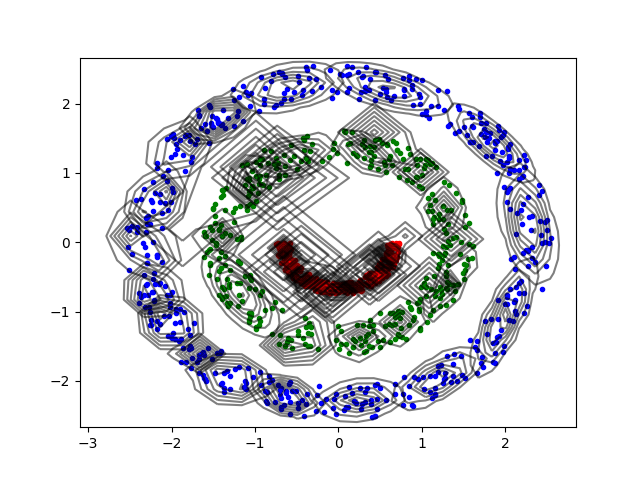
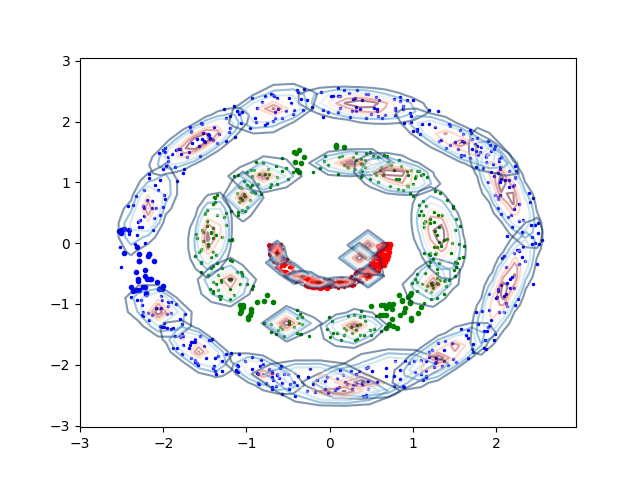
Wrapping up the work of Assignment 2.

diff --git a/Assignment2/main_1.py b/Assignment2/main_1.py
@@ -161,10 +161,10 @@ if inp=="2c":
 	plt.show()
 	print "KMeans done"
 	# print len(data.tolist())
-	files = os.listdir("Data/Data2c/Test/7by7_1_try/")
+	files = os.listdir("Data/Data2c/Test/7by7/")
 	TEST = []
 	for i in files:
-		image = np.load("Data/Data2c/Test/7by7_1_try/" + i)
+		image = np.load("Data/Data2c/Test/7by7/" + i)
 		TEST.append(image.tolist())
 	data_p = []
 	for i in range(len(TEST)):
@@ -174,19 +174,26 @@ if inp=="2c":
 		for j in range(len(TEST[i])):
 			data_p.append(TEST[i][j])
 			cluster = KMeans.getCluster(cluster_centers, TEST[i][j])
-			if(cluster == 0):
-				for x in range(7):
-					for y in range(7):
-						cluster1.append([(j/73)*7 + x, (j%73)*7 + y])
-			if(cluster == 1):
-				c+=1
-				for x in range(7):
-					for y in range(7):
-						cluster2.append([(j/73)*7 + x, (j%73)*7 + y])
-			if(cluster == 2):
-				for x in range(7):
-					for y in range(7):
-						cluster3.append([(j/73)*7 + x, (j%73)*7 + y])
+			if cluster==0:
+				cluster1.append([j/505, j%505])
+			if cluster==1:
+				cluster2.append([j/505, j%505])
+			if cluster==2:
+				cluster3.append([j/505, j%505])
+						
+			# if(cluster == 0):
+			# 	for x in range(7):
+			# 		for y in range(7):
+			# 			cluster1.append([(j/73)*7 + x, (j%73)*7 + y])
+			# if(cluster == 1):
+			# 	c+=1
+			# 	for x in range(7):
+			# 		for y in range(7):
+			# 			cluster2.append([(j/73)*7 + x, (j%73)*7 + y])
+			# if(cluster == 2):
+			# 	for x in range(7):
+			# 		for y in range(7):
+			# 			cluster3.append([(j/73)*7 + x, (j%73)*7 + y])
 		print len(cluster1), len(cluster2), len(cluster3)
 		plot(cluster1,"b.")
 		plot(cluster2,"g.")
@@ -198,6 +205,7 @@ if inp=="2c":
 		plot(GMM_clusters[i], colors[i])
 	for i in range(3):
 		plot([GMM_center[i]], "c*")
+	plt.show()
 	cluster1,cluster2,cluster3=[],[],[]
 	for i in range(len(TEST)):
 		cluster1,cluster2,cluster3 = [],[],[]
@@ -208,24 +216,24 @@ if inp=="2c":
 				if(GMM_pi[l]*multivariate_normal.pdf(TEST[i][j],mean=GMM_center[l],cov=GMM_sigma[l],allow_singular=True)>MAX):
 					index=l
 					MAX=GMM_pi[l]*multivariate_normal.pdf(TEST[i][j],mean=GMM_center[l],cov=GMM_sigma[l],allow_singular=True)
-			# if index==0:
-			# 	cluster1.append([j/505, j%505])
-			# if index==1:
-			# 	cluster2.append([j/505, j%505])
-			# if index==2:
-			# 	cluster3.append([j/505, j%505])
-			if(cluster == 0):
-				for x in range(7):
-					for y in range(7):
-						cluster1.append([(j%73)*7 + y, (j/73)*7 + x])
-			if(cluster == 1):
-				for x in range(7):
-					for y in range(7):
-						cluster2.append([(j%73)*7 + y, (j/73)*7 + x])
-			if(cluster == 2):
-				for x in range(7):
-					for y in range(7):
-						cluster3.append([(j%73)*7 + y, (j/73)*7 + x])
+			if index==0:
+				cluster1.append([j/505, j%505])
+			if index==1:
+				cluster2.append([j/505, j%505])
+			if index==2:
+				cluster3.append([j/505, j%505])
+			# if(cluster == 0):
+			# 	for x in range(7):
+			# 		for y in range(7):
+			# 			cluster1.append([(j%73)*7 + y, (j/73)*7 + x])
+			# if(cluster == 1):
+			# 	for x in range(7):
+			# 		for y in range(7):
+			# 			cluster2.append([(j%73)*7 + y, (j/73)*7 + x])
+			# if(cluster == 2):
+			# 	for x in range(7):
+			# 		for y in range(7):
+			# 			cluster3.append([(j%73)*7 + y, (j/73)*7 + x])
 
 		plot(cluster1,"bo")
 		plot(cluster2,"ro")

diff --git a/Assignment2/plot.py b/Assignment2/plot.py
@@ -1,0 +1,13 @@
+import matplotlib.pyplot as plt
+
+iterations = [1, 2, 3, 4, 5 , 6, 7, 8, 9,10]
+log_like1 = [2.1894154302893083e-52, 2.37325698904824e-49, 4.8128834650933e-47, 5.570909612463303e-45, 1.630267714984433e-44, 7.1425952143387845e-43, 4.703959387415531e-43, 4.703959387415531e-41, 4.703959387415531e-40, 4.703959387415531e-39, 2.2386112988682383e-38, 2.2386112988682383e-37, 8.2386112988682383e-37, 2.2386112988682383e-36, 5.2386112988682383e-36, 7.2386112988682383e-36, 8.2386112988682383e-36, 9.2386112988682383e-36, 9.2586112988682383e-36, 9.2786112988682383e-36, 9.2886112988682383e-36 ]
+log_like2 = [1.0091275102694416e-46, 6.31830302733381e-45, 7.838585155244492e-44, 7.937286633344273e-43, 9.936266626607831e-42, 1.2942114945642208e-40, 1.9031722127347584e-39, 2.2779497425224306e-39, 5.2779497425224306e-39, 6.2779497425224306e-39, 7.2779497425224306e-39, 7.6779497425224306e-39, 7.8779497425224306e-39, 7.8979497425224306e-39]
+log_like3 = [4.546622100673631e-56, 8.320489228794851e-55, 1.4962743232048931e-53, 9.647240362873023e-52, 1.7184011432501523e-51, 2.1725022318793655e-49, 5.5983421443877175e-49, 6.024864239581168e-47, 6.024864239581168e-45, 6.024864239581168e-44, 4.024864239581168e-43, 9.024864239581168e-43, 3.024864239581168e-42, 5.024864239581168e-42, 6.024864239581168e-42, 6.824864239581168e-42, 7.124864239581168e-42, 7.224864239581168e-42, 7.254864239581168e-42]
+# plt.plot(range(0,len(log_like1)), log_like1, color="red", label="class1")
+# plt.plot(range(0,len(log_like2)), log_like2, color="blue", label="class2")
+plt.plot(range(0,len(log_like3)), log_like3, color="green", label="class3")
+plt.legend(loc='upper left')
+plt.xlabel("iterations")
+plt.ylabel("log-likelihood")
+plt.show()

diff --git a/Assignment2/main.py b/Assignment2/main.py
@@ -18,7 +18,7 @@ if inp=="1":
 	C3,t3=sf.get_data("Data/Data1/Class3.txt")
 	DATA=[C1,C2,C3]
 	test=[t1,t2,t3]
-	k_value = [16]
+	k_value = [32]
 	for i in k_value:
 		print i
 		model=GMMClassifier.GMMClassifier(DATA,i,[[-4.0,4.0],[-3.0,3.0]],test)
@@ -32,7 +32,7 @@ if inp=="2a":
 	C3,t3=sf.get_data("Data/Data2a/Class3.txt")
 	DATA=[C1,C2,C3]
 	test=[t1,t2,t3]
-	k_value = [32, 64]
+	k_value = [2,4,8,16,32, 64]
 	for i in k_value:
 		model=GMMClassifier.GMMClassifier(DATA,i,[[-50.0,2000.0],[250.0,2800.0]],test)
 		model.plot_model(10.0)
@@ -45,7 +45,7 @@ if inp=="2b":
 	tt=raw_input()
 	if tt=="hist":
 		print "Using Histograms:- "
-		k_value = [4, 8, 16, 32, 64]
+		k_value = [1,2, 4, 8, 16, 32, 64]
 		for i in k_value:
 			print "K = ", i
 

diff --git a/Assignment2/GMM.py b/Assignment2/GMM.py
@@ -57,7 +57,7 @@ def GMMCluster(DATA,Num_of_Clusters,diagonal=False, kmeans=[]):#data for class n
 	print "INIT DONE"
 	#--------------------------------------------------------
 	Distortion=[]
-	thresh=10
+	thresh=0.01
 	while(len(Distortion)<8 or abs(Distortion[len(Distortion)-1]-Distortion[len(Distortion)-2])>thresh):
 	# while(1>2):
 		# Finding Gamma(n,k)

diff --git a/Assignment2/KMeans.py b/Assignment2/KMeans.py
@@ -14,7 +14,7 @@ def KMeans(DATA,K):
 	dimentions=len(DATA[0])
 	D=[]
 	# thresh=0.001
-	thresh=100
+	thresh=10
 	# print "Hello"
 	while(len(D)<2 or abs(D[len(D)-1]-D[len(D)-2])>thresh ):
 	# while len(D)<2 or (D[len(D)-1]-D[len(D)-2])>0:
